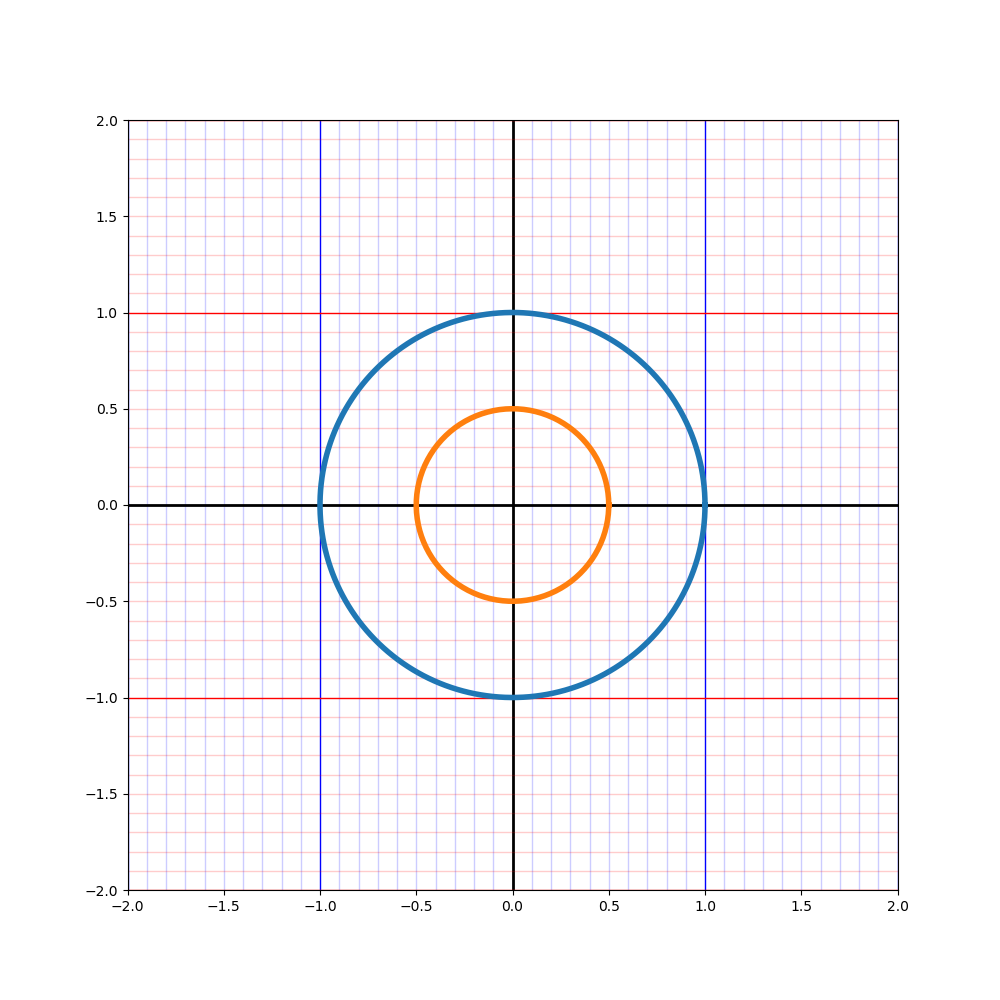
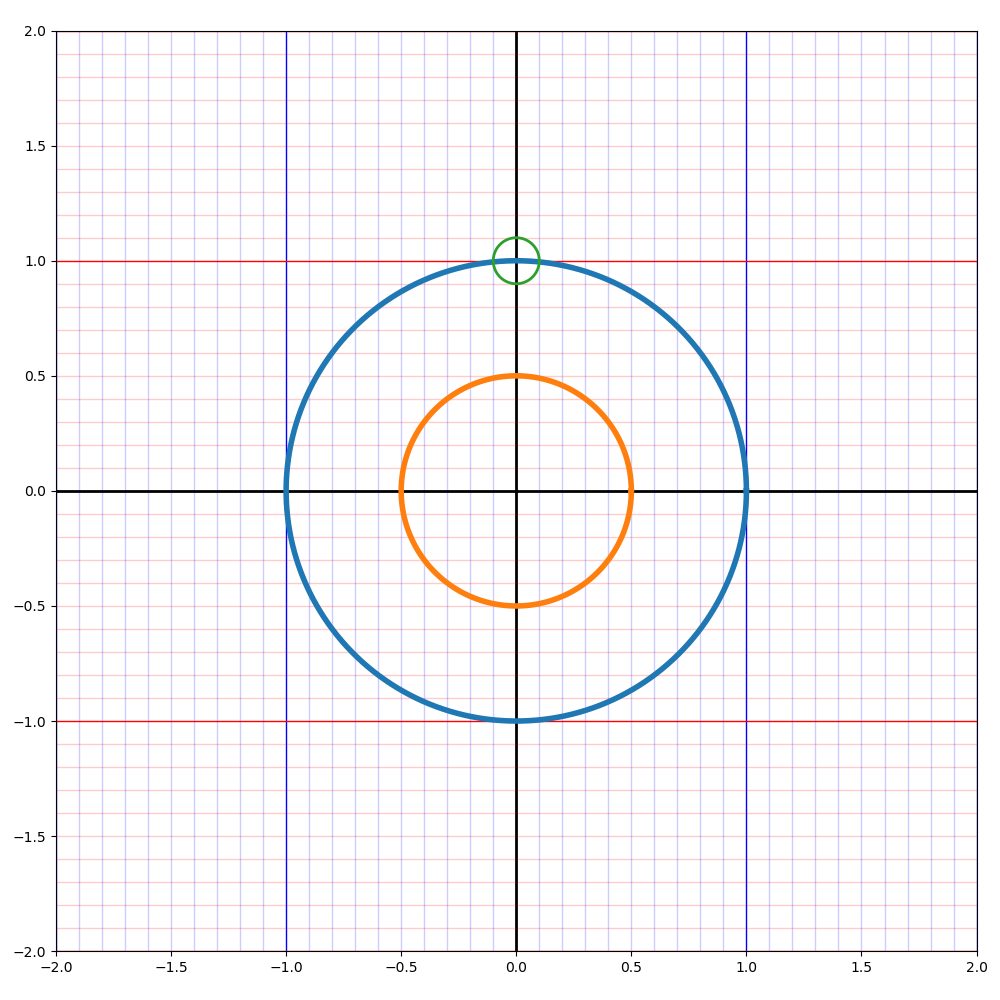
- tight layout refactor to class add samples

diff --git a/plot_colors.py b/plot_colors.py
@@ -6,71 +6,151 @@ import numpy as np
 from datacursor import HoverCursor
 
 
-def plot(f, xlim, ylim, step, 
-    color_power=1, color_clip=None, figsize=(16, 8), dpi=200, save_path=None):
-    xlim = xlim[0], xlim[1]+1e-8
-    ylim = ylim[0], ylim[1]+1e-8
-    
-    # make meshgrid
-    d = np.mgrid[xlim[0]:xlim[1]:step, ylim[0]:ylim[1]:step]
-    plane = d[0] + d[1] * 1j
-    Z = plane
-    # evaluate
-    W = f(Z)
+class ColorPlot:
+    def __init__(self, f, xlim, ylim, step, 
+        color_power=1, color_clip=None, figsize=(16, 8), dpi=200):
+        """
+        Plots "colorful" picture:
+        - Color corresponds to argument of the function value evaluated at the
+            corresponding point.
+        - Brightness coresponds to the magnitude/absolute value of the function
+            value evaluated at the corresponding point.
+        Args:
+            f (complex valued function): Function C -> C
+            xlim (tuple): x-range of input domain
+            ylim (tuple): y-range of input domain
+            step (float): density of points.
+            color_power (int, optional): scaler for the brightness. When function 
+                has sharp maximum, this helps to see gradient of the brightness. 
+                Defaults to 1.
+            color_clip ([type], optional): clips function magnitude at that value. 
+                When function have poles, this helps to avoid infinities. 
+                Defaults to None.
+            figsize (tuple, optional): Figure size. Defaults to (16, 8).
+            dpi (int, optional): dpi for saving figure. Defaults to 200.
+            save_path (str, optional): Path to save figure, if not none. 
+                Defaults to None.
+        
+        Returns:
+            (pyplot.figure): figure object
+        """
+        self.f = f
+        self.xlim = xlim[0], xlim[1]+1e-8
+        self.ylim = ylim[0], ylim[1]+1e-8
+        self.step = step
+        self.color_power, self.color_clip = color_power, color_clip
+        self.figsize = figsize
+        self.dpi = dpi
+        
+        self.Z, self.W = self._evaluate()
+        self.fig, (self._ax_id, self._ax_f) = self._plot()
+        self._hover_cursor = self._anotate()
+        self.fig.tight_layout()
 
-    def colors(W, color_power):
+        
+    def _evaluate(self):
+        # make meshgrid
+        d = np.mgrid[self.xlim[0]:self.xlim[1]:self.step, 
+                     self.ylim[0]:self.ylim[1]:self.step]
+        plane = d[0] + d[1] * 1j
+        Z = plane
+        # evaluate
+        W = self.f(Z)
+        return Z, W
+    
+    def _plot(self):
+        fig = plt.figure(figsize=self.figsize, dpi=150)
+        ax_id = plt.subplot(121)
+        plt.title("Input")
+        plt.imshow(self._colors(self.Z.T, self.color_power, self.color_clip),
+                   origin="lower")
+        plt.xticks(*self._label_pos(self.xlim, self.step))
+        plt.yticks(*self._label_pos(self.ylim, self.step))
+        plt.grid(alpha=0.2)
+        
+        ax_f = plt.subplot(122)
+        plt.title("Output")   
+        plt.imshow(self._colors(self.W.T, self.color_power, self.color_clip),
+                   origin="lower")
+        plt.xticks(*self._label_pos(self.xlim, self.step))
+        plt.yticks(*self._label_pos(self.ylim, self.step))
+        plt.grid(alpha=0.2)
+        return fig, (ax_id, ax_f)
+    
+    def _anotate(self):
+        def formatter(ax, x, y):
+            x = self._inverse_transform(x, self.xlim, self.step)
+            y = self._inverse_transform(y, self.ylim, self.step)
+            z = x + 1j*y
+            if ax == self._ax_id:
+                w = z
+            elif ax == self._ax_f:
+                w = self.f(z)
+            return self.formatter(z, w)
+    
+        return HoverCursor(self.fig, formatter=formatter)
+    
+    @staticmethod
+    def _colors(W, color_power, color_clip):
         argW = (np.angle(W)) % (2*np.pi)
         # argW[np.isnan(argW)] = 0
         colors = cm.hsv(argW/(np.pi*2))
-
         absW = np.abs(W)
+        
+        # clip
         if color_clip is not None:
             absW = np.minimum(absW, color_clip)
       
-        colors[:, :, :3] *= (absW[:, :, np.newaxis] / np.nanmax(absW))**(color_power)
-                    
+        # rise to power
+        colors[:, :, :3] *= (absW[:, :, np.newaxis] / 
+                             np.nanmax(absW))**(color_power)
         # colors[:, :, :3] *= np.tanh(absW[:, :, np.newaxis] / np.max(absW)*2)
         return colors
     
-    def transform(x, lim, step, dtype="int"):
+    @staticmethod
+    def _transform(x, lim, step, dtype="int"):
         return ((-lim[0] + x) / step).astype(dtype)
-    def inverse_transform(x, lim, step, dtype="float"):
+    
+    @staticmethod
+    def _inverse_transform(x, lim, step, dtype="float"):
         return (x * step + lim[0]).astype(dtype)
     
-    def label_pos(lim, step):
+    @staticmethod
+    def _label_pos(lim, step):
         labels = np.arange(lim[0], lim[1]+1e-8, 1)
-        positions = transform(labels, lim, step, "int")
+        positions = ColorPlot._transform(labels, lim, step, "int")
         return positions, labels
+    
+    @staticmethod
+    def formatter(z, w):
+        """
+        Returns string, which will be in the annotation box.
+        
+        Args:
+            z (complex): function input
+            w (complex): function output
+        
+        Returns:
+            str: annotation text
+        """
+        def complex_to_str(z):
+            return f"{z:.2f}"[:-1] + "$i$"
+        def complex_to_exp(z):
+            rho = np.abs(z)
+            phi = np.angle(z)
+            sign, phi = "-+"[phi>0], abs(phi/np.pi)
+            return f"{rho:.2f}"+"$\\cdot e^{" + sign + f"{phi:.2f} i \pi " + "}$"
+        return f"$z$:  {complex_to_str(z)}\n{complex_to_exp(z)}\n$f(z)$: {complex_to_str(w)}\n{complex_to_exp(w)}"
+    
+    def show(self, save_path=None):
+        # for fullscreen
+        self.fig.canvas.manager.full_screen_toggle()
+        
+        if save_path is not None:
+            self.save(save_path)
+        plt.show()
 
-    
-    
-    plt.figure(figsize=figsize, dpi=150)
-    ax_id = plt.subplot(121)
-    plt.title("Input")
-    plt.imshow(colors(Z.T, color_power), origin="lower")
-    plt.xticks(*label_pos(xlim, step))
-    plt.yticks(*label_pos(ylim, step))
-    plt.grid(alpha=0.2)
-    
-    ax_f = plt.subplot(122)
-    plt.title("Output")   
-    plt.imshow(colors(W.T, color_power), origin="lower")
-    plt.xticks(*label_pos(xlim, step))
-    plt.yticks(*label_pos(ylim, step))
-    plt.grid(alpha=0.2)
-
-    def formatter(ax, x, y):
-        x = inverse_transform(x, xlim, step)
-        y = inverse_transform(y, ylim, step)
-        if ax == ax_id:
-            z = x + 1j*y
-        elif ax == ax_f:
-            z = f(x + 1j*y)
-        ro = np.abs(z)
-        phi = ((np.angle(z)) % (2*np.pi)) / np.pi
-        return 'x: %0.2f\ny: %0.2f\n$\\rho$: %0.2f\n$\\phi$: %0.2f$\\pi$' %(x, y, ro, phi)
-    
-    HoverCursor(plt.gcf(), formatter=formatter)
-    if save_path is not None:
+    def save(self, save_path, dpi=None):
+        if dpi is None:
+            dpi = self.dpi
         plt.savefig(save_path, dpi=dpi)
-    return plt.gcf()

diff --git a/example_holomorphic_function.py b/example_holomorphic_function.py
@@ -1,22 +1,28 @@
 from matplotlib import pyplot as plt
 import numpy as np
 
-import plot_colors
+from plot_colors import ColorPlot
 from grid_transform import GridTransformer
 
 def f(z):
     return 0.5*(z + 1/z)
 
-plot_colors.plot(f, (-2, 2), (-2, 2), 0.01, color_power=(1/3), color_clip=6 )
-plt.savefig("output/sample_function_colors.png")
+# ColorPlot(f, (-2, 2), (-2, 2), 0.005, 
+#     color_power=(1/4), color_clip=4).show("output/sample_function_colors.png")
+
 
 gt = GridTransformer(f, (-4, 4), (-4, 4), 0.1, 0.01,
-                     plt_xlim=(-2., 2.), plt_ylim=(-2., 2.)
-                     )
+                     plt_xlim=(-2., 2.), plt_ylim=(-2., 2.))
+
+#add some curves to the plane
 gt.add_curve(np.exp(np.pi * 2j * np.linspace(0,1,200, endpoint=True)), lw=4)
 gt.add_curve(0.5*np.exp(np.pi * 2j * np.linspace(0,1,200, endpoint=True)), lw=4)
+gt.add_curve( 1j+0.1*np.exp(np.pi * 2j * np.linspace(0,1,200, endpoint=True)), lw=2)
+
+# snapshots during transformation
 gt.plot_trasformed(t=0, save_path="output/sample_function(t=0).png", figsize=(10, 10), dpi=100)
 gt.plot_trasformed(t=0.3, save_path="output/sample_function(t=0.3).png", figsize=(10, 10), dpi=100)
 gt.plot_trasformed(t=1, save_path="output/sample_function(t=1).png", figsize=(10, 10), dpi=100)
-gt.transform("output/sample_function.mp4", seconds=8, fps=30, 
-             figsize=(10, 10), dpi=100, plus_reverse=True)
+
+gt.transform("output/sample_function.mp4", seconds=16, fps=60, 
+             figsize=(10, 10), dpi=200, plus_reverse=True)

diff --git a/grid_transform.py b/grid_transform.py
@@ -51,6 +51,7 @@ class GridTransformer:
         if fz is None:
             fz = self.f(z)
         self.curves.append(((z, fz), style))
+        return self
         
     def add_grid_to_curves(self):
         """
@@ -103,6 +104,8 @@ class GridTransformer:
         for (z, fz), style in self.curves:
             p = self.transition(z, fz, t)
             plt.plot(np.real(p), np.imag(p), **style)
+        fig.tight_layout()
+        
         if save_path is not None:
             if os.path.splitext(save_path)[1] != ".png":
                 save_path += '.png'
@@ -151,7 +154,7 @@ class GridTransformer:
         """
         frames = []
         frames.append(np.linspace(0, 1,int(seconds * fps), endpoint=True))
-        frames.append(np.ones((int(fps*0.5))))
+        frames.append(np.ones((int(fps*1)))) #wait one second
         
         if plus_reverse:
             frames.append(np.linspace(1, 0,int(seconds * fps), endpoint=True))
@@ -177,6 +180,7 @@ class GridTransformer:
 
         fig = plt.figure(**fig_kwargs)
         ax = plt.axes(xlim=self.plt_xlim, ylim=self.plt_ylim, aspect="equal")
+        fig.tight_layout()
         
         def init_plot():
             lines = []
